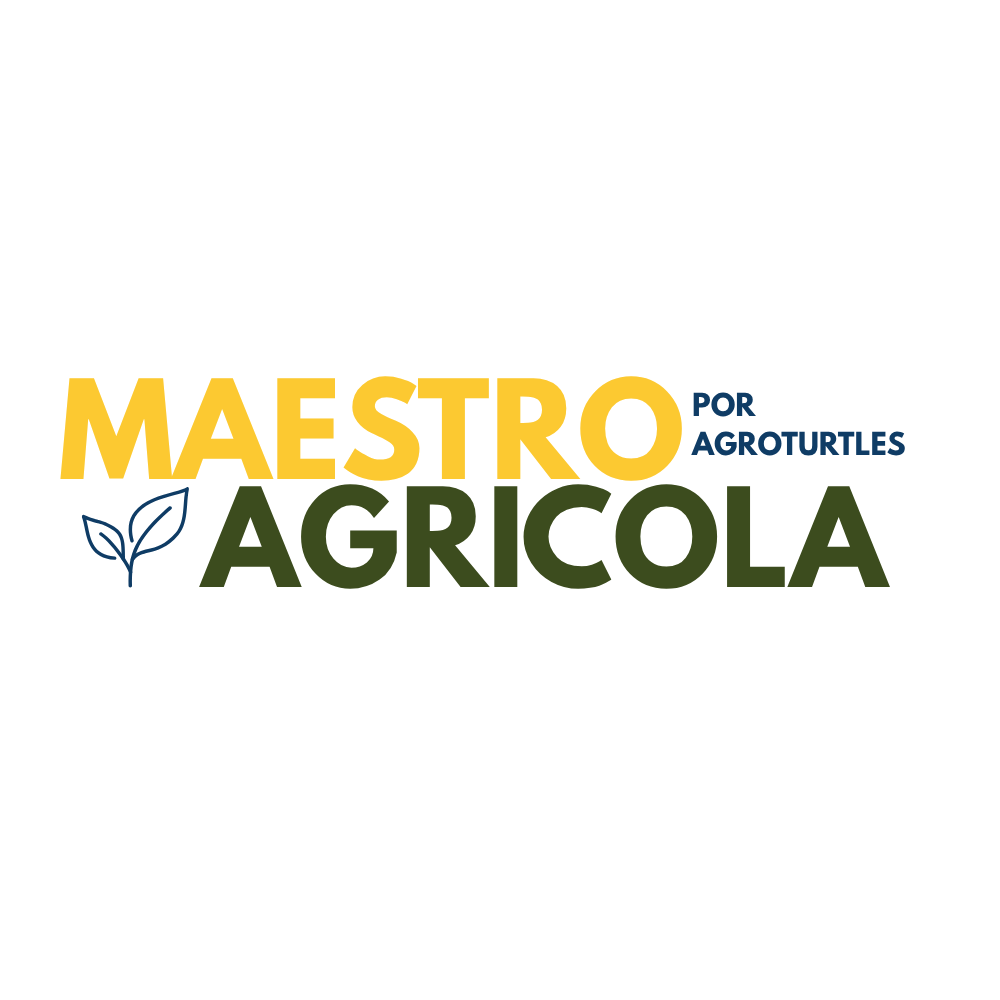
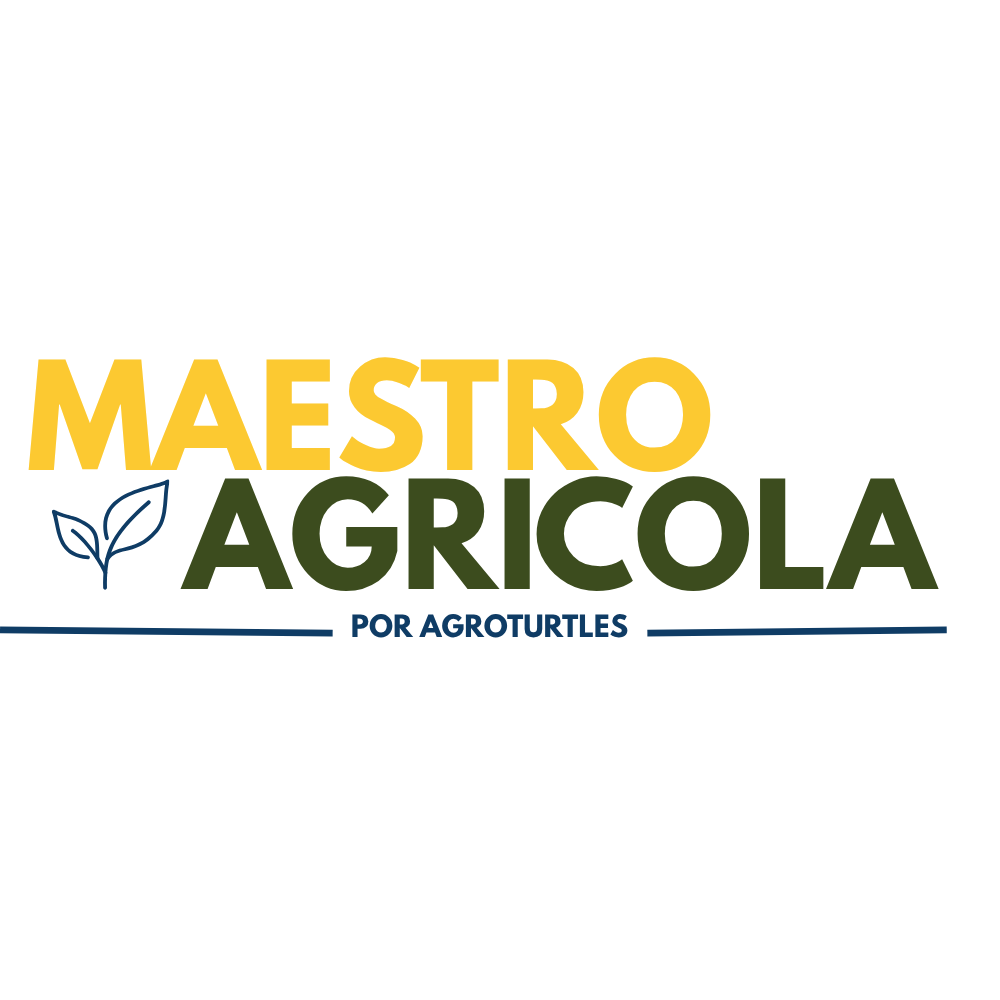
docs(brand): replace lockups with approved v2

Changed region(s): [[0.0, 0.341, 0.961, 0.651]]

diff --git a/docs/brand/README.md b/docs/brand/README.md
@@ -11,7 +11,7 @@ Esta pasta documenta como aplicar a marca **Maestro Agrícola por AgroTurtles** 
 | azul de apoio | assinatura, detalhes e informação técnica | `#0F3C65` | `15, 60, 101` |
 | branco | fundo e respiro | `#FFFFFF` | `255, 255, 255` |
 
-Os valores foram extraídos dos pixels dominantes dos PNGs entregues pela equipe em 18 de agosto de 2026. Pequenas variações nas bordas são antialiasing e não devem virar novas cores.
+Os valores foram extraídos dos pixels dominantes dos PNGs entregues pela equipe. A revisão de 19 de agosto de 2026 preservou a paleta. Pequenas variações nas bordas são antialiasing e não devem virar novas cores.
 
 ## Tipografia
 
@@ -28,19 +28,18 @@ Os valores foram extraídos dos pixels dominantes dos PNGs entregues pela equipe
 | --- | --- |
 | `assets/brand/logo-icon-yellow.png` | ícone Android, avatar e aplicações pequenas |
 | `assets/brand/logo-icon-white.png` | símbolo isolado sobre fundo branco |
-| `assets/brand/logo-lockup-square.png` | composição centralizada ou peças quadradas |
-| `assets/brand/wordmark.png` | cabeçalho e materiais com pouco espaço vertical |
-| `assets/brand/logo-horizontal-slogan.png` | capa, fechamento e materiais institucionais largos |
-| `assets/brand/wordmark-trim.png` | wordmark sem margem branca excedente, para slides |
-| `assets/brand/logo-horizontal-slogan-trim.png` | marca horizontal sem margem branca excedente, para slides |
+| `assets/brand/logo-lockup-square.png` | composição vertical com símbolo, nome e assinatura |
+| `assets/brand/wordmark.png` | wordmark quadrado, sem a tartaruga, para pouco espaço horizontal |
+| `assets/brand/logo-horizontal.png` | composição horizontal para README, app, capas e slides largos |
 
-Os arquivos `*-trim.png` apenas removem espaço branco externo. Cor, proporção e desenho da marca permanecem iguais aos originais.
+Os três lockups são os PNGs aprovados em 19 de agosto de 2026, preservados byte a byte. O espaço branco faz parte dos arquivos recebidos; a aplicação pode enquadrá-los, mas não deve distorcer ou redesenhar a arte.
 
 ## Regras mínimas
 
 - Não redesenhar, rotacionar, esticar ou recolorir a tartaruga.
 - Para ícone de app, usar sempre a tartaruga verde sobre amarelo, sem texto.
 - Manter proporção original dos PNGs.
+- Não voltar a usar o slogan `SEU MELHOR AMIGO DO CAMPO`; a assinatura oficial agora é `POR AGROTURTLES` entre linhas azuis.
 - Preferir fundo branco no conteúdo e amarelo em áreas de impacto; verde é a cor principal de texto.
 - Azul serve como apoio e nunca substitui o verde no símbolo.
 - Em slides, usar a marca completa na abertura e no fechamento; nas páginas de conteúdo, o ícone pode funcionar como assinatura discreta.
@@ -48,5 +47,6 @@ Os arquivos `*-trim.png` apenas removem espaço branco externo. Cor, proporção
 ## Proveniência
 
 - Design Canva de referência: `DAHSfjjymqI`.
-- Logos: arquivos enviados pela equipe, preservados sem alteração visual.
+- Lockups v2: arquivos `3.png`, `4.png` e `5.png` enviados pela equipe em 19 de agosto de 2026 e preservados sem alteração visual.
+- Símbolos isolados: arquivos da entrega de 18 de agosto de 2026; a tartaruga e a paleta não mudaram.
 - Fonte: [League Spartan 2.220](https://github.com/theleagueof/league-spartan/releases/tag/2.220), sob SIL Open Font License 1.1.

diff --git a/README.md b/README.md
@@ -1,7 +1,7 @@
 # Maestro Agrícola
 
 <p align="center">
-  <img src="assets/brand/logo-horizontal-slogan-trim.png" alt="Maestro Agrícola por AgroTurtles — seu melhor amigo do campo" width="760">
+  <img src="assets/brand/logo-horizontal.png" alt="Maestro Agrícola por AgroTurtles" width="760">
 </p>
 
 Interface hands-free para comandar maquinário agrícola autônomo com visão, voz e confirmação por áudio.

diff --git a/docs/tasks/visual-identity.md b/docs/tasks/visual-identity.md
@@ -1,6 +1,6 @@
 # Identidade visual AgroTurtles
 
-Status: concluída em 18 de agosto de 2026
+Status: concluída em 18 de agosto de 2026; substituída por [`visual-identity-v2.md`](visual-identity-v2.md) em 19 de agosto
 
 Responsáveis: Felipe e Rafael (pitch), Átila (validação mobile)
 
